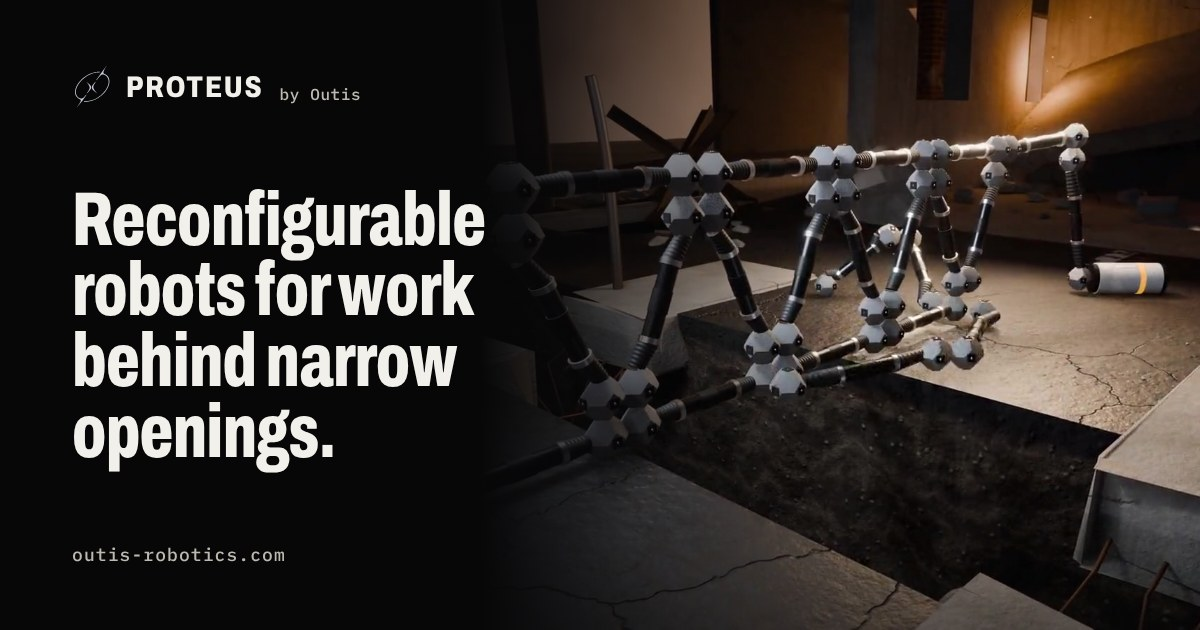
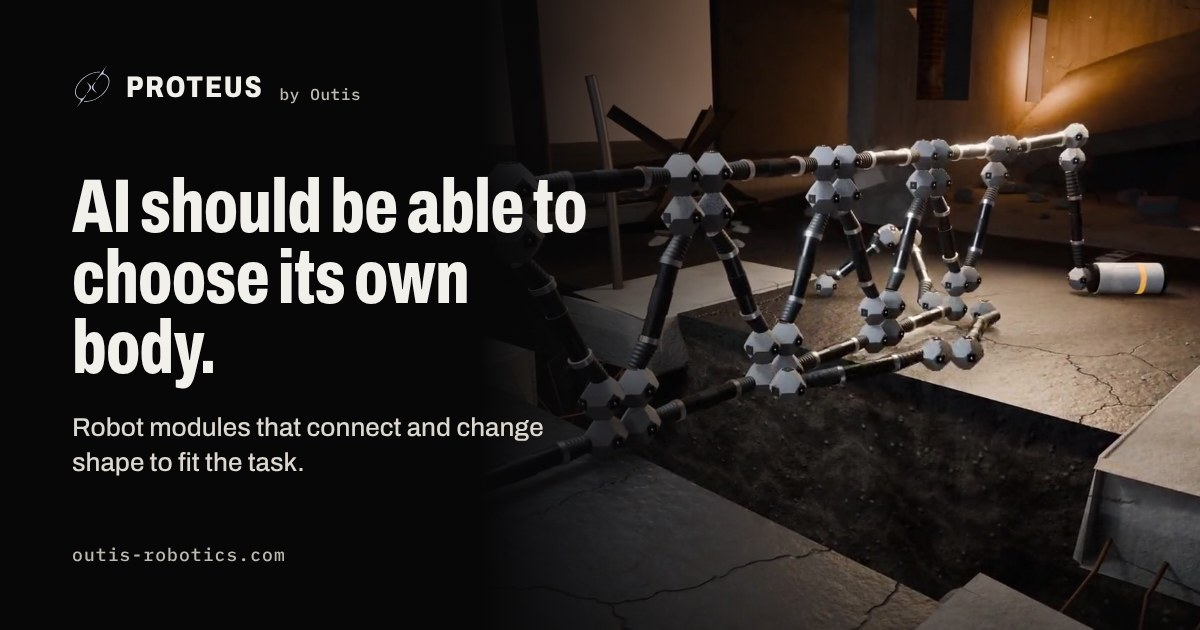
Hero: AI should be able to choose its own body, with a plain-language subline; preview image updated
Claude-Session: https://claude.ai/code/session_011kUXctnYccCsL6ks7P2tcX

Changed region(s): [[0.0617, 0.2714, 0.4933, 0.754]]

diff --git a/index.html b/index.html
@@ -3,20 +3,20 @@
 <head>
 <meta charset="utf-8">
 <meta name="viewport" content="width=device-width, initial-scale=1, viewport-fit=cover">
-<title>Proteus by Outis – Reconfigurable robots for work behind narrow openings</title>
-<meta name="description" content="Identical modules dock into a walker, a chain or a braced arm and do the job on site, so nobody has to climb in. Designed and built in Berlin.">
+<title>Proteus by Outis – AI should be able to choose its own body</title>
+<meta name="description" content="We’re building robot modules that connect and change shape to fit the task, so nobody has to go in first. Designed and built in Berlin.">
 
 <meta name="theme-color" content="#070708">
 <meta property="og:type" content="website">
 <meta property="og:site_name" content="Proteus by Outis">
-<meta property="og:title" content="Proteus by Outis – Reconfigurable robots for work behind narrow openings">
-<meta property="og:description" content="Identical modules dock into a walker, a chain or a braced arm and do the job on site, so nobody has to climb in. Designed and built in Berlin.">
+<meta property="og:title" content="Proteus by Outis – AI should be able to choose its own body">
+<meta property="og:description" content="We’re building robot modules that connect and change shape to fit the task, so nobody has to go in first. Designed and built in Berlin.">
 <link rel="canonical" href="https://outis-robotics.com/">
 <meta property="og:url" content="https://outis-robotics.com/">
-<meta property="og:image" content="https://outis-robotics.com/assets/img/og.jpg?v=4">
+<meta property="og:image" content="https://outis-robotics.com/assets/img/og.jpg?v=5">
 <meta property="og:image:width" content="1200">
 <meta property="og:image:height" content="630">
-<meta property="og:image:alt" content="Proteus by Outis: reconfigurable robots for work behind narrow openings.">
+<meta property="og:image:alt" content="Proteus by Outis: AI should be able to choose its own body. Robot modules that connect and change shape to fit the task.">
 <meta name="twitter:card" content="summary_large_image">
 <link rel="icon" href="assets/img/favicon.svg" type="image/svg+xml">
 <link rel="icon" href="assets/img/favicon-32.png" sizes="32x32" type="image/png">
@@ -61,9 +61,8 @@
     <div class="hero__shade" aria-hidden="true"></div>
   </div>
   <div class="wrap hero__content">
-    <h1 id="hero-title" class="display hero__title">Reconfigurable robots for work behind narrow openings.</h1>
-    <p class="lead hero__lead">Identical modules dock into a walker, a chain or a braced arm and do the job on site, so nobody has to climb in.</p>
-    <p class="hero__thesis">AI should be able to choose its own body.</p>
+    <h1 id="hero-title" class="display hero__title">AI should be able to choose its own body.</h1>
+    <p class="lead hero__lead">We’re building robot modules that connect and change shape to fit the task, so nobody has to go in first.</p>
     <div class="hero__actions">
       <a class="btn btn--accent" href="mailto:yannik.trinn@outis-robotics.com?subject=Demo%20request%20%E2%80%93%20Proteus">Book a demo</a>
       <a class="btn btn--ghost" href="#film" data-play-film><span class="btn__play" aria-hidden="true"></span>Watch the mission (1:45) <span class="btn__sound">Sound on</span></a>

diff --git a/vision/index.html b/vision/index.html
@@ -12,7 +12,7 @@
 <meta property="og:title" content="AI should be able to choose its own body.">
 <meta property="og:description" content="Smaller modules. More possible machines. Why we are redefining embodied AI.">
 <meta property="og:url" content="https://outis-robotics.com/vision/">
-<meta property="og:image" content="https://outis-robotics.com/assets/img/og.jpg?v=4">
+<meta property="og:image" content="https://outis-robotics.com/assets/img/og.jpg?v=5">
 <meta property="og:image:width" content="1200">
 <meta property="og:image:height" content="630">
 <meta property="og:image:alt" content="Proteus by Outis: shape-shifting robots for confined and hazardous spaces.">
